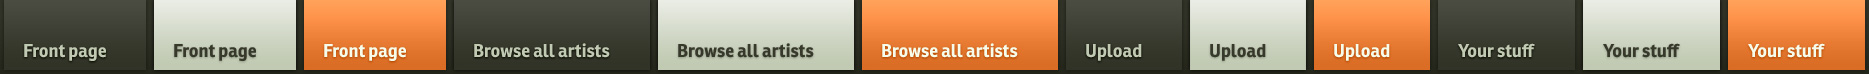
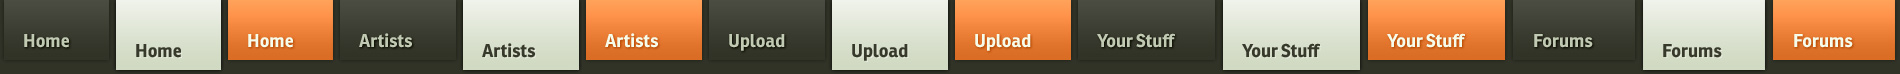
redo the nav for forums, fix the bot reporting

diff --git a/public/stylesheets/sass/nav.sass b/public/stylesheets/sass/nav.sass
@@ -22,38 +22,56 @@ ul#nav
       :display block
       :margin 0 
       :height 74px
-      :width 150px
-      :background url(../images/buttons/nav.png) no-repeat 0px 0px
+      :width 120px
+      :background transparent url(../images/buttons/nav.png) no-repeat 0px 0px
     &#home
-      :margin-right 71px
+      :margin-right 70px
       a
-        :width 150px
+        :width 112px
         :background-position 0px 0px 
-        &.active
-          :background-position -150px 0px
         &:hover
-          :background-position -300px 0px
+          :background-position -224px 0px
+        &.active
+          :background-position -112px 0px
+          &:hover
+            :background-position -112px 0px
     &#browse
       a
-        :width 204px
-        :background-position -450px 0px
-        &.active
-          :background-position -654px 0px
+        :width 124px
+        :background-position -336px 0px
         &:hover
-          :background-position -858px 0px
+          :background-position -582px 0px
+        &.active
+          :background-position -459px 0px
+          &:hover
+            :background-position -459px 0px
     &#upload
       a
-        :background-position -1062px 0px
-        :width 124px
-        &.active
-          :background-position -1186px 0px
+        :background-position -706px 0px
+        :width 123px
         &:hover
-          :background-position -1310px 0px
+          :background-position -952px 0px
+        &.active
+          :background-position -830px 0px
+          &:hover
+            :background-position -830px 0px
     &#your_stuff
       a
         :width 145px
-        :background-position -1434px 0px
-        &.active
-          :background-position -1579px 0px
+        :background-position -1074px 0px
         &:hover
-          :background-position -1724px 0px
+          :background-position -1364px 0px
+        &.active
+          :background-position -1219px 0px
+          &:hover
+            :background-position -1219px 0px
+    &#forums
+      a
+        :width 130px
+        :background-position -1509px 0px
+        &:hover
+          :background-position -1769px 0px
+        &.active
+          :background-position -1639px 0px
+          &:hover
+            :background-position -1639px 0px

diff --git a/public/stylesheets/sass/layout.sass b/public/stylesheets/sass/layout.sass
@@ -26,8 +26,8 @@ a#logo
   :top 0px
   :left 50px
   :height 80px
-  :width 730px  
-
+  :width 830px  
+  :background none
 #wrapper
   :position relative
   :margin 0

diff --git a/app/controllers/forums_controller.rb b/app/controllers/forums_controller.rb
@@ -1,5 +1,6 @@
 class ForumsController < ApplicationController
   before_filter :admin_required, :except => [:index, :show]
+  before_filter :set_forum_tab
 
   # GET /forums
   # GET /forums.xml
@@ -8,7 +9,7 @@ class ForumsController < ApplicationController
     session[:forums_page] = nil
 
     @forums = Forum.ordered
-
+    @page_title = 'alonetone Forums'
     respond_to do |format|
       format.html # index.html.erb
       format.xml  { render :xml => @forums }
@@ -90,5 +91,10 @@ class ForumsController < ApplicationController
       format.html { redirect_to(forums_path) }
       format.xml  { head :ok }
     end
+  end
+  
+  protected
+  def set_forum_tab
+    @tab = "forums"
   end
 end

diff --git a/app/controllers/users_controller.rb b/app/controllers/users_controller.rb
@@ -9,7 +9,7 @@ class UsersController < ApplicationController
   rescue_from NoMethodError, :with => :user_not_found
 
   def index
-    @page_title = "Musicians and Listeners: #{params[:sort] ? params[:sort].titleize : ''}"
+    @page_title = "#{params[:sort] ? params[:sort].titleize+' - ' : ''} Musicians and Listeners"
     @tab = 'browse'
     @users = User.paginate_by_params(params) unless params[:sort] == 'map'
     flash[:info] = "Want to see your pretty face show up here?<br/> Edit <a href='#{edit_user_path(current_user)}'>your profile</a>" unless current_user = :false || current_user.has_pic?

diff --git a/app/controllers/assets_controller.rb b/app/controllers/assets_controller.rb
@@ -203,10 +203,9 @@ class AssetsController < ApplicationController
       :track_owner=> @asset.user, 
       :source => @referer, 
       :ip => request.remote_ip) unless bot?
-    logger.warn("BOT LISTEN: "+ request.remote_ip + request.user_agent) if bot?
   end
   
   def bot?
-    @@valid_listeners.detect{ |listener| request.user_agent.downcase.include? listener} == nil
+    (@@valid_listeners.detect{ |listener| request.user_agent.downcase.include? listener} == nil) || (request.user_agent.downcase.include?('bot'))
   end
 end
